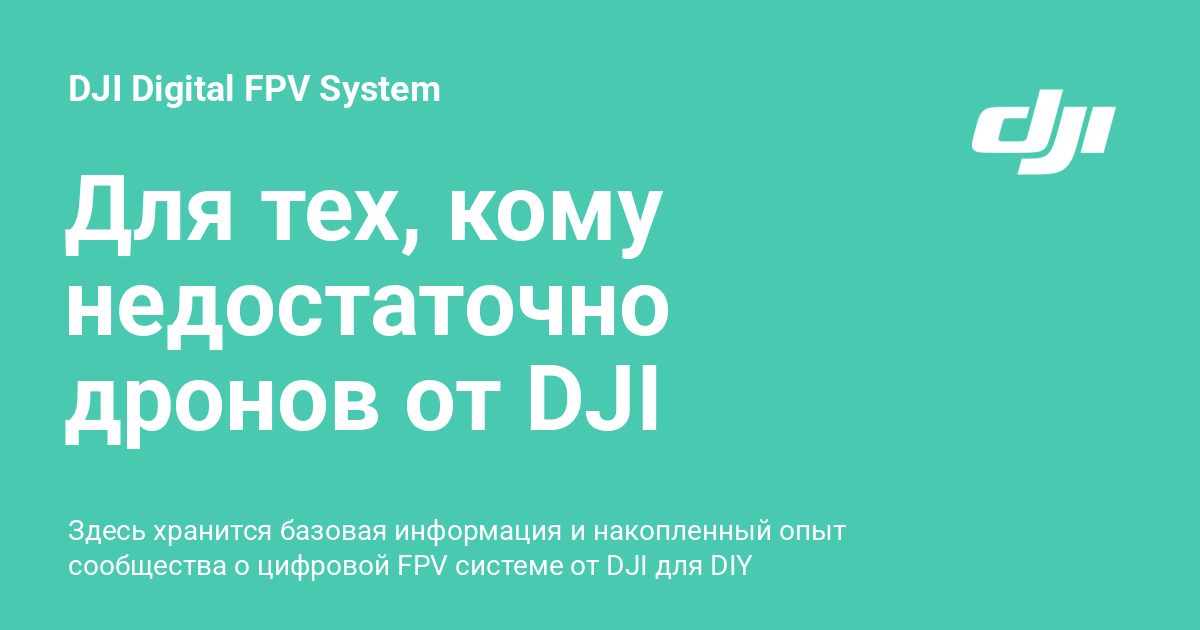
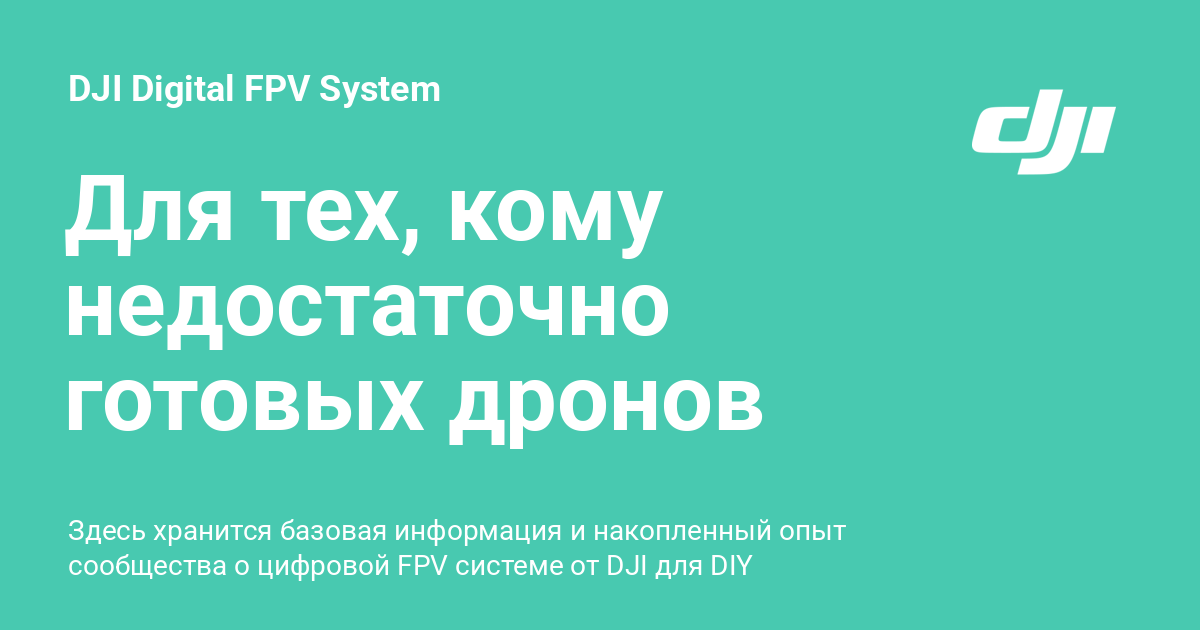
Deployed 023cbc1d with MkDocs version: 1.6.1

Changed region(s): [[0.0308, 0.573, 0.6475, 0.7238]]

diff --git a/index.html b/index.html
@@ -26,7 +26,7 @@
     
     
       
-        <title>Для тех, кому недостаточно дронов от DJI - DJI Digital FPV System</title>
+        <title>Для тех, кому недостаточно готовых дронов DJI - DJI Digital FPV System</title>
       
     
     
@@ -163,7 +163,7 @@
         <div class="md-header__topic" data-md-component="header-topic">
           <span class="md-ellipsis">
             
-              Для тех, кому недостаточно дронов от DJI
+              Для тех, кому недостаточно готовых дронов DJI
             
           </span>
         </div>
